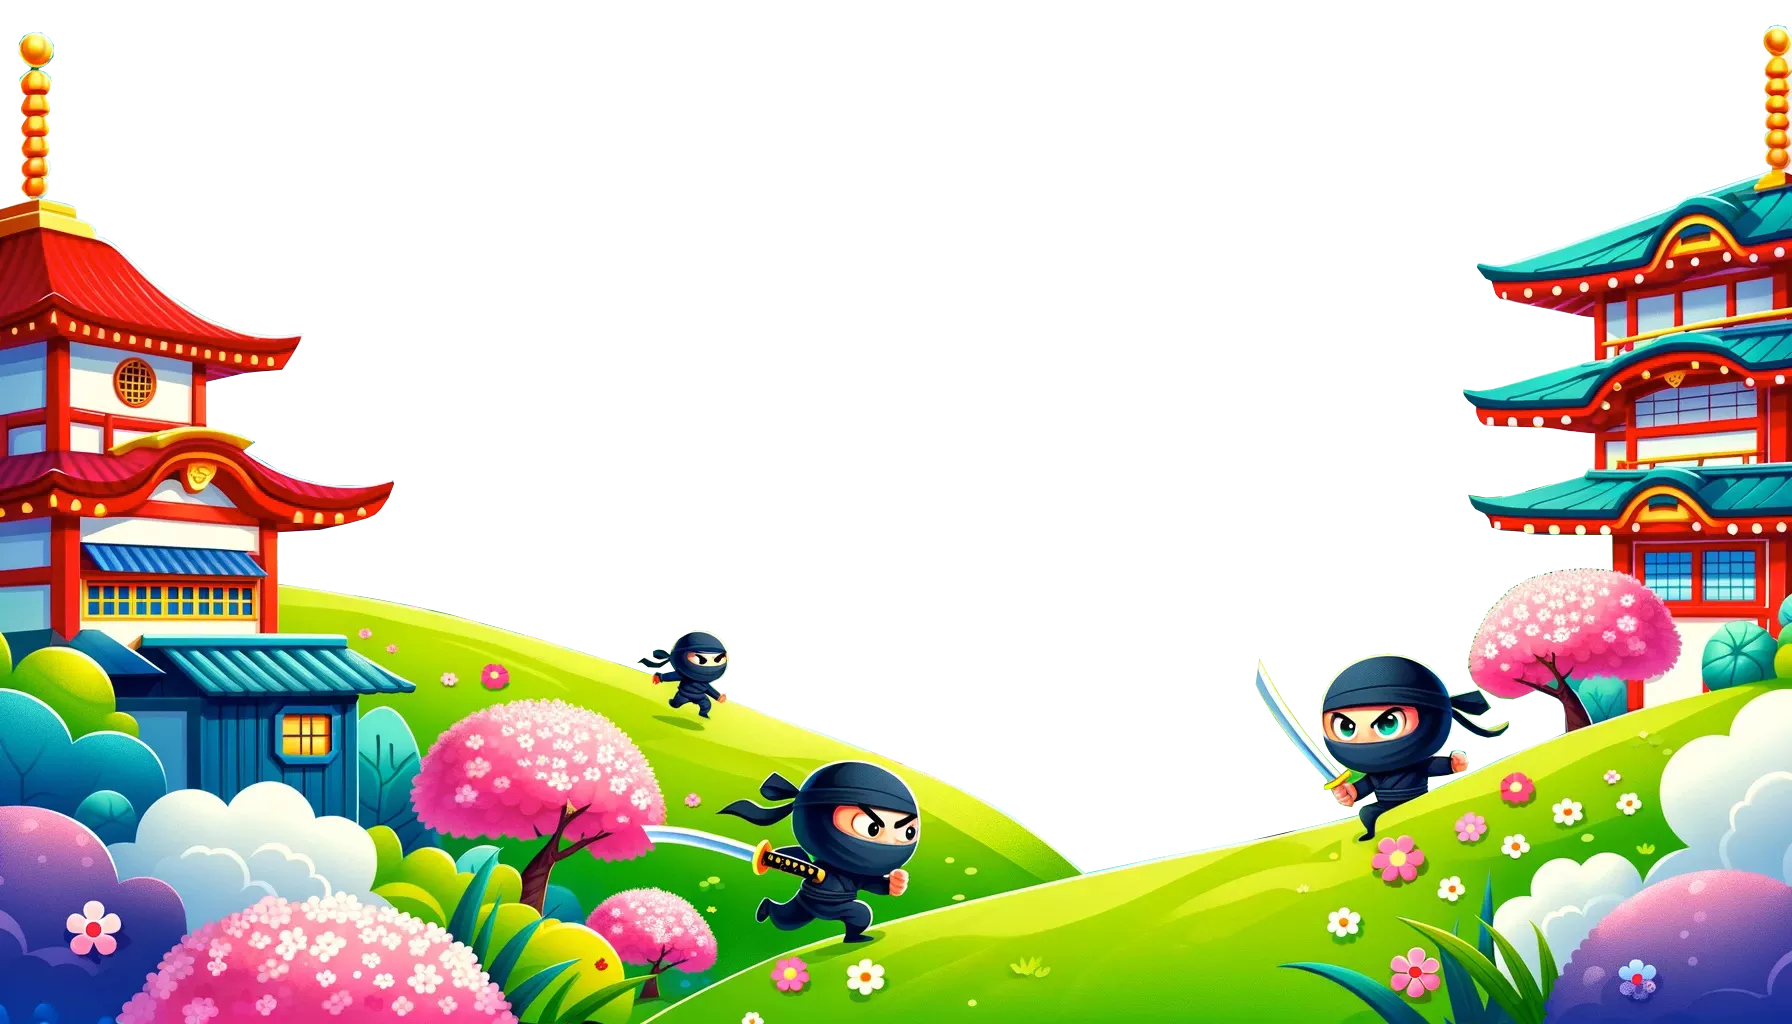
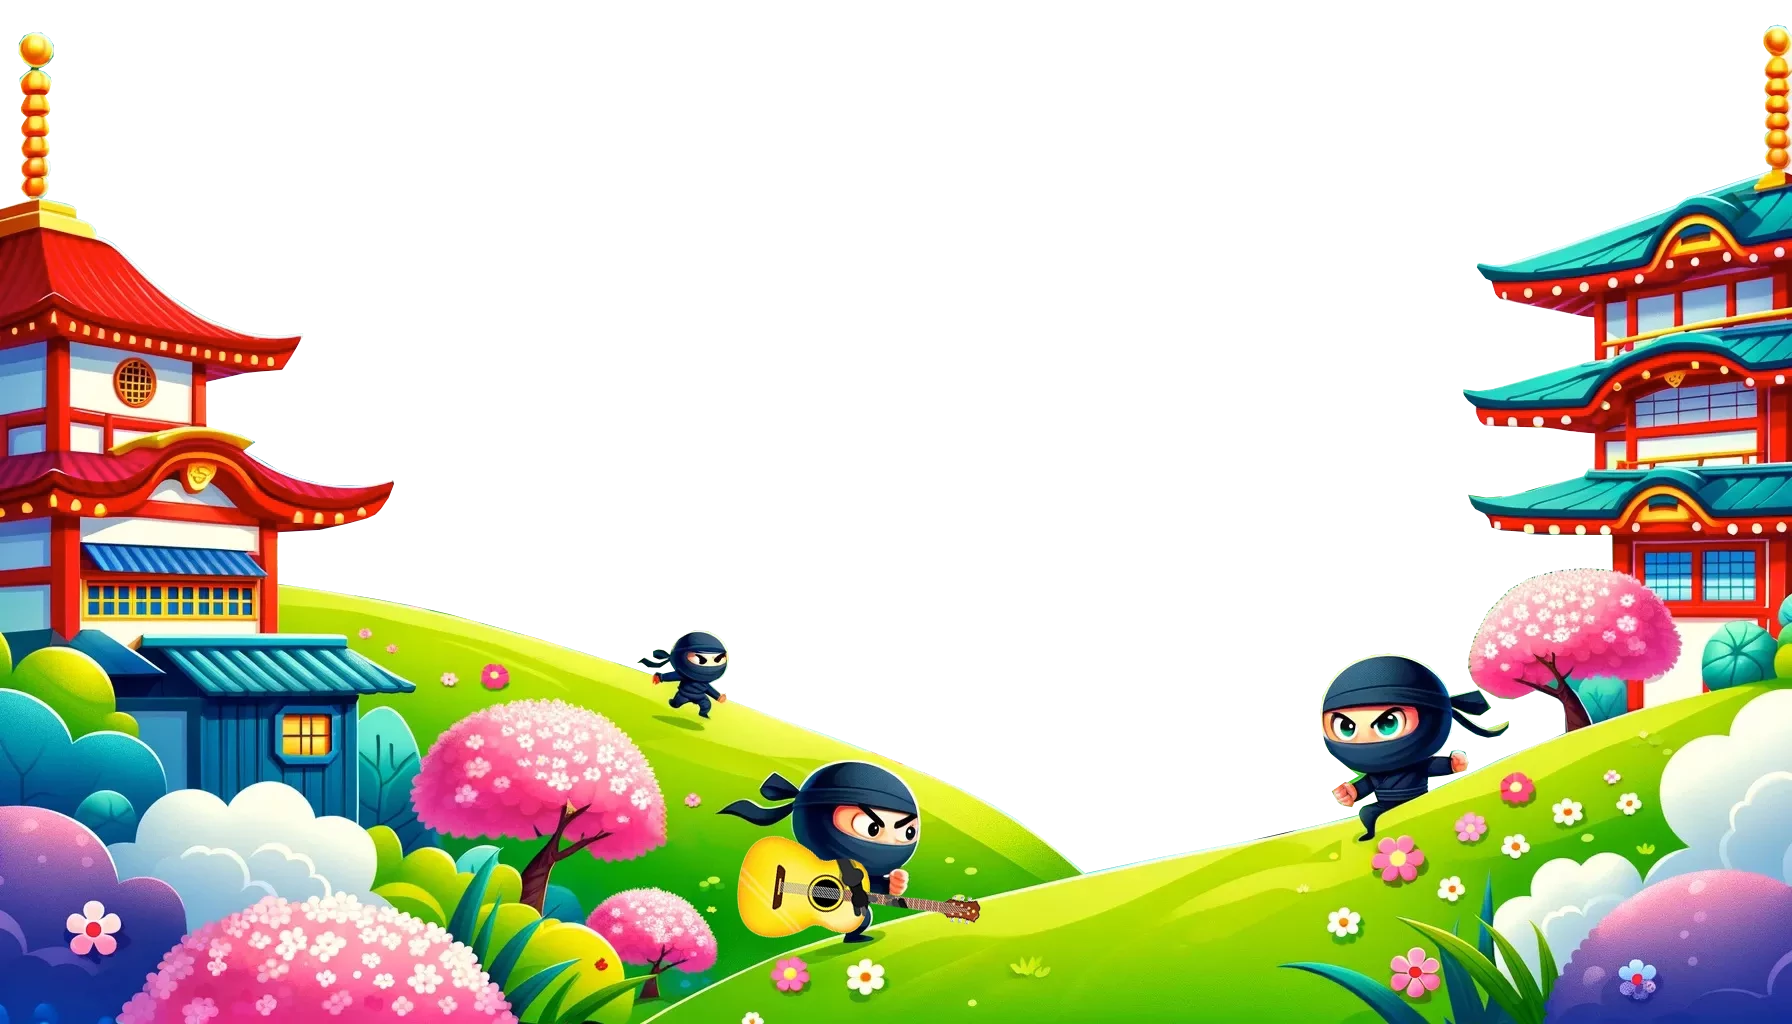
feat: update images for 3d scene remove swords

Changed region(s): [[0.3438, 0.7812, 0.5625, 0.9375], [0.6875, 0.6562, 0.75, 0.7812]]

diff --git a/libs/shared/lesson/src/lib/components/course/course-scene/landscape.tsx b/libs/shared/lesson/src/lib/components/course/course-scene/landscape.tsx
@@ -13,6 +13,7 @@ import { ScrollTrigger } from 'gsap/ScrollTrigger';
 import { ScrollToPlugin } from 'gsap/ScrollToPlugin';
 import { LessonButton, ModulePosition } from './course.types';
 import ModuleAwards from './module-awards';
+
 gsap.registerPlugin(ScrollTrigger);
 // eslint-disable-next-line @typescript-eslint/no-unsafe-argument
 gsap.registerPlugin(useGSAP);
@@ -217,41 +218,6 @@ export const Landscape = ({
           <meshStandardMaterial map={foreGround} transparent={true} metalness={0.4} />
         </Plane>
 
-        <group position={[0, 2, 2]}>
-          <Center>
-            <Text3D
-              castShadow={true}
-              font={'/images/course/font.json'}
-              curveSegments={32}
-              bevelEnabled
-              bevelSize={0.04}
-              bevelThickness={1.5}
-              height={0.5}
-              lineHeight={0.5}
-              letterSpacing={-0.06}
-              size={2}>
-              LET'S ROCK AND ROLL
-              <meshStandardMaterial color="#EC4899" />
-            </Text3D>
-          </Center>
-          <Center position={[0, -2.5, 0]}>
-            <Text3D
-              castShadow={true}
-              font={'/images/course/font.json'}
-              curveSegments={32}
-              bevelEnabled
-              bevelSize={0.05}
-              bevelThickness={1.5}
-              height={0.5}
-              lineHeight={0.5}
-              letterSpacing={-0.06}
-              size={2}>
-              NINJA STYLE!
-              <meshStandardMaterial color="#DE0BF5" />
-            </Text3D>
-          </Center>
-        </group>
-
         {pathLength && (
           <>
             <FretBoard
@@ -278,3 +244,41 @@ export const Landscape = ({
     </>
   );
 };
+
+/*
+<group position={[0, 2, 2]}>
+  <Center>
+    <Text3D
+      castShadow={true}
+      font={'/images/course/font.json'}
+      curveSegments={32}
+      bevelEnabled
+      bevelSize={0.04}
+      bevelThickness={1.5}
+      height={0.5}
+      lineHeight={0.5}
+      letterSpacing={-0.06}
+      size={2}>
+      LET'S ROCK AND ROLL
+      <meshStandardMaterial color="#EC4899"/>
+    </Text3D>
+  </Center>
+  <Center position={[0, -2.5, 0]}>
+    <Text3D
+      castShadow={true}
+      font={'/images/course/font.json'}
+      curveSegments={32}
+      bevelEnabled
+      bevelSize={0.05}
+      bevelThickness={1.5}
+      height={0.5}
+      lineHeight={0.5}
+      letterSpacing={-0.06}
+      size={2}>
+      NINJA STYLE!
+      <meshStandardMaterial color="#DE0BF5"/>
+    </Text3D>
+  </Center>
+</group>
+
+ */

diff --git a/libs/shared/lesson/src/lib/components/course/course-scene/module-path.tsx b/libs/shared/lesson/src/lib/components/course/course-scene/module-path.tsx
@@ -256,26 +256,25 @@ const Path: React.FC<{
   }, [curvePath]);
 
   return (
-    <>
+    <group frustumCulled={false}>
       {pathLength && (
         <mesh>
           {/* @ts-expect-error type not register */}
           <meshLineGeometry frustumCulled={false} points={curvePath.curvePoints} castShadow={true} />
 
           <meshLineMaterial
-            transparent
             lineWidth={2}
+            transparent={true}
             color={new THREE.Color(color)}
             depthWrite={false}
             dashArray={1 / pathLength}
             dashRatio={0.4}
-            opacity={opacity}
             sizeAttenuation={1}
             toneMapped={false}
           />
         </mesh>
       )}
-    </>
+    </group>
   );
 };
 
